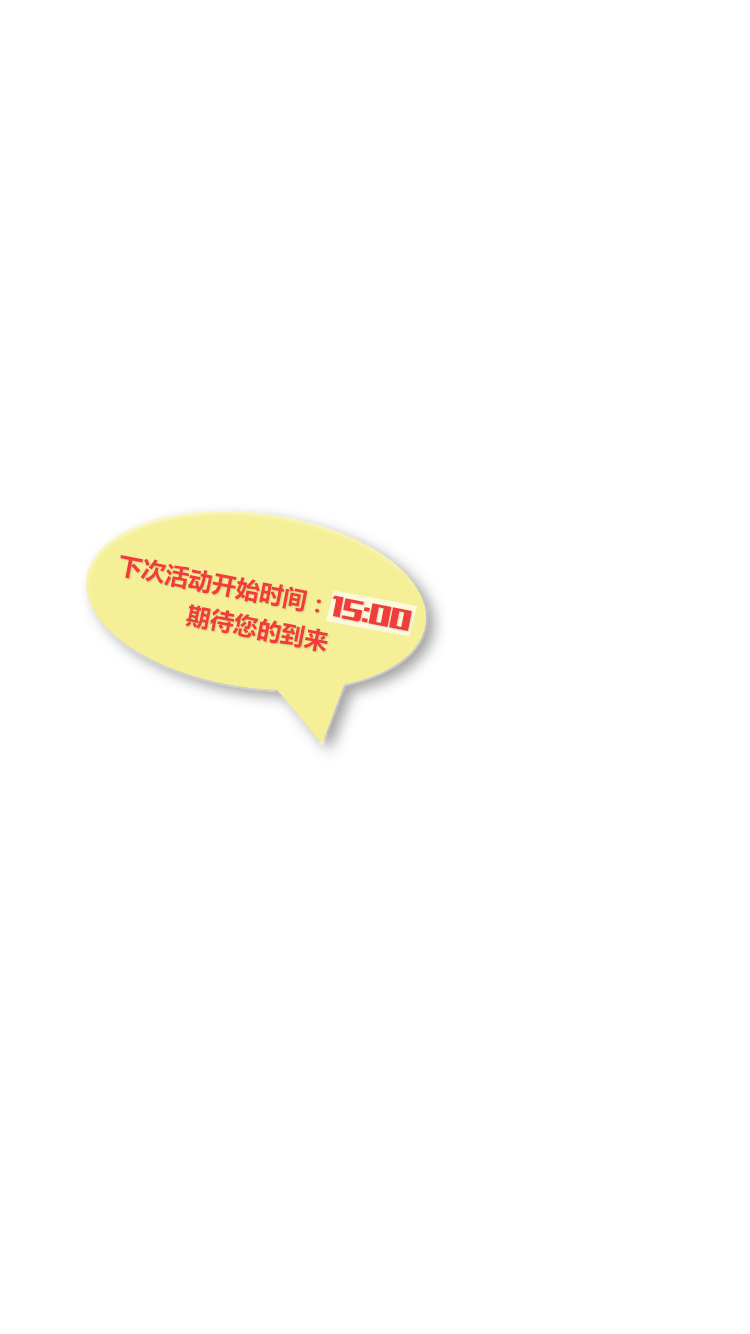
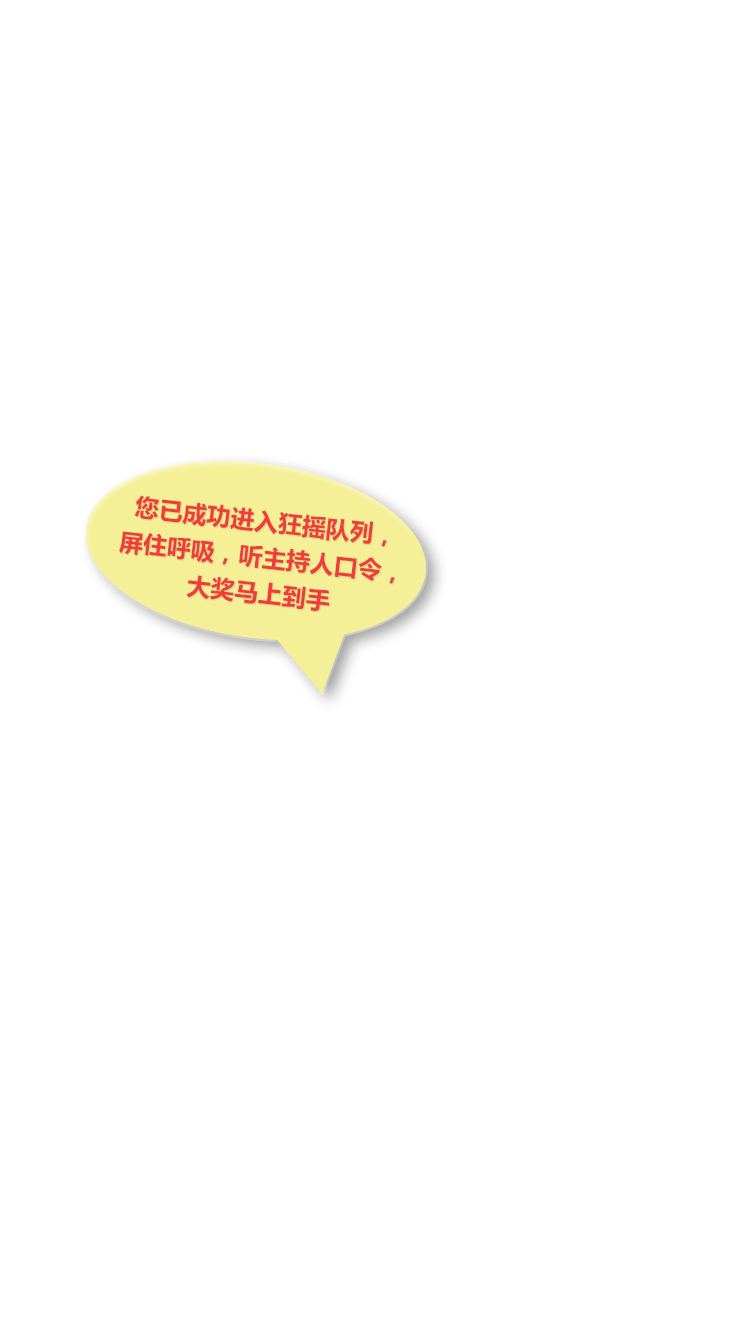
no message

Changed region(s): [[0.092, 0.3381, 0.5827, 0.584]]

diff --git a/src/pages/Ready.vue b/src/pages/Ready.vue
@@ -1,11 +1,26 @@
 <template>
   <div class="ready">
-    <img v-show="aniVar.purse === 0" src="../assets/laugh_01.png">
-    <img v-show="aniVar.purse === 1" src="../assets/laugh_02.png">
-    <img v-show="aniVar.purse === 2" src="../assets/laugh_03.png">
-    <img v-show="aniVar.purse === 3" src="../assets/laugh_04.png">
-    <img src="../assets/rules.png" alt="">
-    <img src="../assets/readyWords.png" alt="">
+    <div class="purse">
+      <img v-show="aniVar.purse === 0" src="../assets/laugh_01.png">
+      <img v-show="aniVar.purse === 1" src="../assets/laugh_02.png">
+      <img v-show="aniVar.purse === 2" src="../assets/laugh_03.png">
+      <img v-show="aniVar.purse === 3" src="../assets/laugh_04.png">
+    </div>
+    <div v-show="activity===0">
+      <img src="../assets/yugao.png" alt="">
+      <span class="startTime">{{startTime}}</span>
+    </div>
+
+    <img v-show="activity===1" src="../assets/readyWords.png" alt="">
+    <img src="../assets/rulesBG.png">
+    <div class="content">
+      <p>1、每人每天可参加多场，每场有一次摇红包机会</p>
+      <P>2、现场主持人口令开始后，派发红包的同时，未进入用户不可进入本场活动</P>
+      <p>3、一切规则及活动安排，以现场主持人的口令为准</p>
+      <p>4、活动时间每日11:00、13:00、14:00、15:00、16:00</p>
+      <p>5、*本活动最终解释权归中国·众泰集团有限公司所有</p>
+    </div>
+
   </div>
 
 </template>
@@ -20,15 +35,30 @@
         aniVar: {
           purse: null,
         },
+        activity: 0,
+        status: 1,
+        startTime: '0'
       }
     },
     mounted () {
       this.animate()
+      this.mobileStart()
     },
     methods: {
       animate () {
         aniLoop(this, 'purse', 4, 200)
       },
+      mobileStart () {
+        this.axios.post('/get_status').then(data => {
+          this.activity = +data.data[0].activity
+          this.startTime = data.data[0].time1
+          if (+data.data[0].status === 1) {
+            this.$router.push('/shaking')
+          } else {
+            this.mobileStart()
+          }
+        })
+      }
     },
   }
 </script>
@@ -39,6 +69,38 @@
       position: absolute;
       top: 0;
       left: 0;
+    }
+    .purse {
+      img {
+        top: -3vh;
+      }
+    }
+    .startTime {
+      position: absolute;
+      left: 44vw;
+      top: 40.5vh;
+      padding: 0.3vw;
+      background-color: #fff;
+      transform: rotateZ(13deg);
+      font-size: 3.8vw;
+      font-weight: 800;
+      color: #f13c3c;
+      text-shadow: 1px 1px rgba(0, 0, 0, 0.6);
+
+    }
+    .content {
+      font-size: 3vw;
+      color: #f3ea80;
+      opacity: 0.8;
+      position: absolute;
+      bottom: 1vh;
+      padding: 0 6vw;
+      p {
+        margin: 0;
+        padding: 0;
+        text-align: left;
+        text-shadow: 2px 2px rgba(0, 0, 0, 0.6);
+      }
     }
   }
 </style>

diff --git a/src/pages/Prize.vue b/src/pages/Prize.vue
@@ -1,7 +1,7 @@
 <template>
   <div class="prize">
-    <!--<img src="../assets/closeRedPacket.png" alt="">-->
-    <div>
+    <img v-show="isOpen===0" src="../assets/closeRedPacket.png" @click="isOpen=1">
+    <div v-show="isOpen===1">
       <img src="../assets/openRedPacket.png" alt="">
       <div class="congratulations">
         <p>恭喜您</p>
@@ -15,11 +15,16 @@
   export default {
     name: 'Prize',
     data: () => ({
-      money: 0
+      money: 0,
+      isOpen: 0
     }),
     mounted () {
-      this.axios.post('/get_hongbaoren', {id: window.userId}).then(data => {
-        this.money = data.data.money
+      this.axios.get('/get_money', {
+        params: {
+          userid: userId
+        }
+      }).then(data => {
+        this.money = data.data[0].money
       })
     }
   }

diff --git a/src/pages/Shaking.vue b/src/pages/Shaking.vue
@@ -16,8 +16,9 @@
     },
     methods: {
       getEnd () {
-        this.axios.post('/rockend').then(data => {
-          if (+data.data.status === 3) {
+        this.axios.post('/get_status').then(data => {
+          if (+data.data[0].status === 0) {
+            console.log(+data.data.status)
             this.$router.push('/prize')
           } else {
             this.getEnd()
